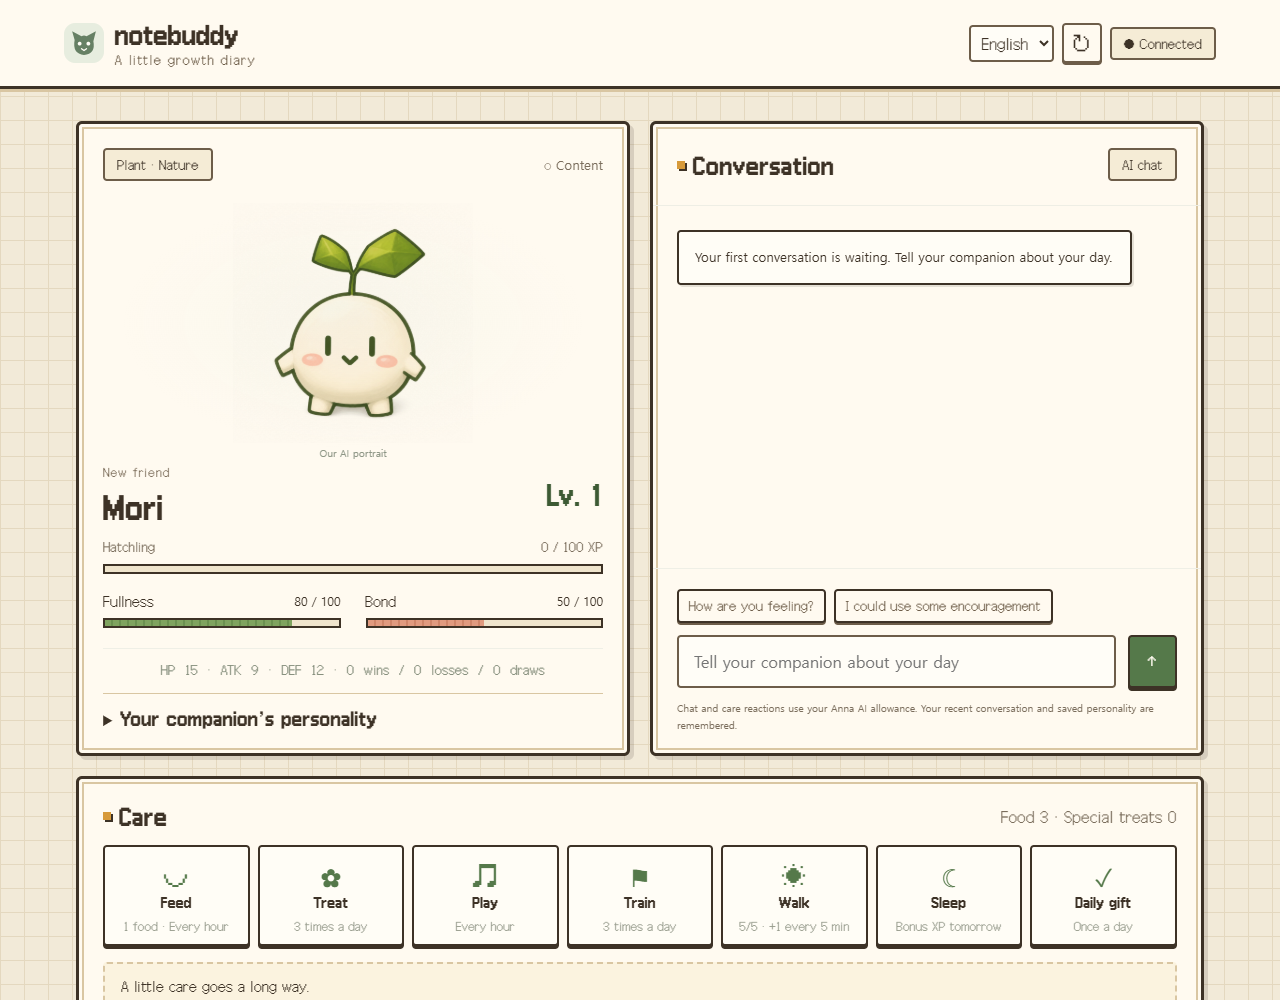
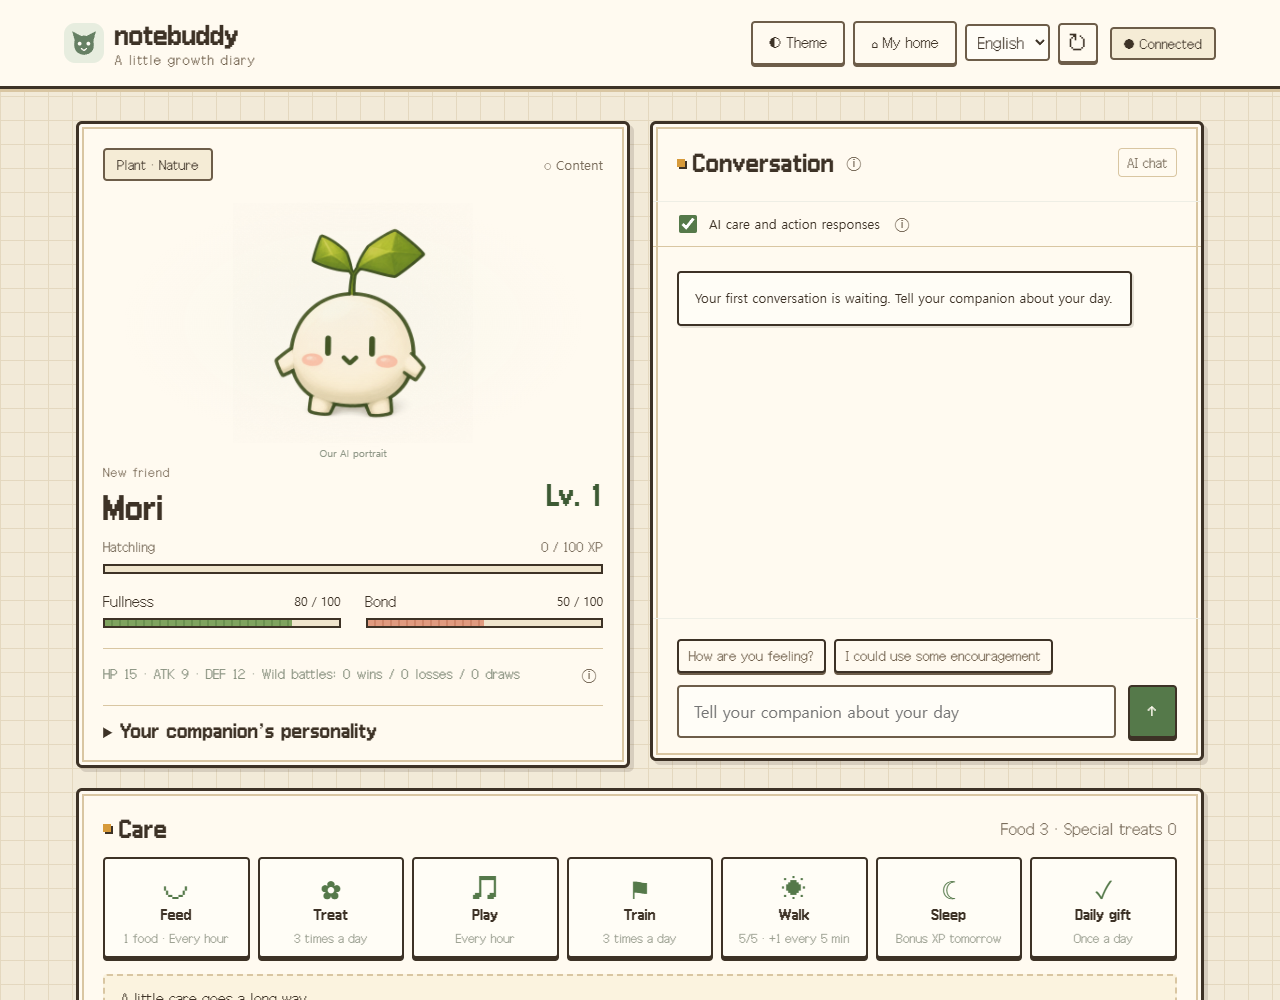
Refresh 1.4.9 listing, screenshots and garden presentation

diff --git a/anna/bundle/home.css b/anna/bundle/home.css
@@ -4,4 +4,4 @@
 #home-purchase-dialog{width:min(440px,calc(100vw - 32px));max-height:calc(100dvh - 32px);overflow:auto}#home-purchase-dialog h2{font-size:18px;overflow-wrap:anywhere}#home-purchase-dialog p{line-height:1.7}
 .home-appearance-choice{padding:12px;border:1px solid var(--line);background:var(--paper);margin-bottom:10px}.home-appearance-choice h3{font-size:14px;margin:0 0 8px}.home-appearance-choice p{font-size:12px;line-height:1.6;margin:0 0 10px}.home-appearance-choice .birth-buttons{flex-wrap:wrap}.home-appearance-choice button{white-space:normal}
 
-.home-shop-filters{display:grid;gap:10px;margin:8px 0 14px}.home-shop-areas{display:flex;gap:5px}.home-shop-areas button{flex:1;min-width:0;padding:8px 3px;font-size:11px;min-height:38px}.home-shop-areas [aria-pressed=true]{background:var(--action,var(--green));color:var(--action-ink,#fffaf0)}#home-shop-category{width:100%;min-height:38px;font:inherit;font-size:12px;padding:7px;background:var(--paper);color:var(--ink);border:1px solid var(--line)}#home-shop-category[hidden]{display:none}
+.home-shop-filters{display:grid;gap:10px;margin:8px 0 14px}.home-shop-areas{display:flex;gap:5px}.home-shop-areas button{flex:1;min-width:0;padding:8px 3px;font-size:11px;min-height:38px}.home-shop-areas button[aria-pressed=true],.home-shop-areas button[aria-pressed=true]:hover:not(:disabled){background:var(--action,var(--green));color:var(--action-ink,#fffaf0)}#home-shop-category{width:100%;min-height:38px;font:inherit;font-size:12px;padding:7px;background:var(--paper);color:var(--ink);border:1px solid var(--line)}#home-shop-category[hidden]{display:none}

diff --git a/anna/scripts/store_fixture.py b/anna/scripts/store_fixture.py
@@ -1,5 +1,6 @@
 """Produce disposable, real-engine views for store screenshots; no Anna account."""
 import json
+import copy
 from pathlib import Path
 import subprocess
 import sys
@@ -30,11 +31,25 @@ for attempt in range(40):
     state, initial = run('start')
     if demo and demo.get('personality'):
         state, initial = run('personality', state, profile=json.dumps(demo['personality']))
+    garden_state=copy.deepcopy(state)
+    # Disposable showcase currency; production saves are never read or written.
+    garden_state['coins']=200
+    for key in ['yard-cherry','yard-tulips','yard-lavender','yard-lily-pond','yard-garden-bench','yard-lantern','yard-herbs','yard-stone-cat','yard-roses','yard-windmill','yard-rock-garden','yard-birdbath']:
+        payload=dict(pet_id=garden_state['pet_id'],revision=garden_state.get('home',{}).get('revision',0),item_id=key)
+        garden_state,_=run('home_buy',garden_state,home_payload=json.dumps(payload))
+    for _ in range(4):
+        _,planned=run('home',garden_state)
+        payload=dict(pet_id=garden_state['pet_id'],revision=planned['home']['revision'],candidate_id=planned['home_candidates'][0]['id'],reason='')
+        payload['reason']='A welcoming garden with flowers, shade and a pond.'
+        garden_state,garden=run('home_apply',garden_state,home_payload=json.dumps(payload))
     state, discovery = run('walk_begin', state)
     if any(entry['discovered'] for entry in discovery['status']['dungeons']['entries']):
         if discovery['status'].get('encounter'):
             state, discovery = run('flee', state)
-        print(json.dumps({'initial': initial, 'discovery': discovery}, ensure_ascii=False))
+        current=state.get('journey',{}).get('current')
+        if current and current['state']=='pending':
+            state,discovery=run('walk_leave',state,choice_id=current['choice_id'])
+        print(json.dumps({'initial': initial, 'discovery': discovery,'garden':garden}, ensure_ascii=False))
         break
 else:
     raise RuntimeError('No discovery in disposable screenshot games; rerun explicitly')

diff --git a/anna/README.en.md b/anna/README.en.md
@@ -38,7 +38,7 @@ Choose **◐ Theme** in the header to change your notebook's mood. Seven themes 
 | **Care for your friend** | Feed, treat, play, train and rest. Watch fullness and bond, collect a daily gift, and claim daily quest rewards. |
 | **Have a conversation** | Replies use personality, recent conversation and shared experience. Care also receives a short reaction. |
 | **Get to know their personality** | Inspect curiosity, warmth, energy and caution as actual care and adventure experiences accumulate and inform replies and stories. |
-| **Keep a growth album** | Reach new stages at levels 10, 30 and 50, then choose when to draw and save a new portrait. |
+| **Keep a growth album** | Reach new stages at levels 10, 30 and 50 and view your saved companion artwork. |
 | **Take a walk** | Find XP, meet creatures or choose a story outcome. Six three-chapter arcs carry earlier choices and experiences forward. |
 | **Explore a dungeon** | Discover Hellgate, Ice Kingdom, Dream Forest, Sunken Palace or Forgotten Clockwork City during walks, then enjoy automatic movement, room choices and battles. |
 | **Browse little treasures** | Open **Browse items** for twenty-four illustrations with lore, rarity, planned rewards and fit requirements. |
@@ -59,7 +59,7 @@ In 1.2.0, each final guardian clear grants one unowned regional item: three stan
 
 Growth, recent conversation and artwork are stored separately for each user. Resume a pending story with **Continue walk**. Reopening the app does not require creating your companion again.
 
-Chat, care reactions, personality, walk stories, drawing/photo analysis and new portraits use **the signed-in Anna account's AI allowance**. Random companions also use AI for initial personality and directional movement creation. Browsing the book and converting a portrait to pixels make no additional AI calls. Existing companions without a personality can use **Meet your personality**.
+Chat, optional care replies and walk narration, initial personality, reference analysis, portrait generation, optional home pixel generation and requested decoration use **your Anna AI allowance**. Care AI can be disabled above chat without losing actions, stats or rewards; direct chat still uses AI. Random portraits are bundled but their initial personality uses AI. Purchases, visits, movement and free pixel conversion do not call AI.
 
 Switching between English and Korean changes the interface and new replies while keeping names and previous conversations intact. To create a different companion, use **Start over** and confirm what will be deleted. Deleted companions and records cannot be recovered. [Privacy and data guide](PRIVACY.md)
 
@@ -73,12 +73,12 @@ Screenshots show the real UI with separate test data. Mori is an actual Anna-gen
 
 ## My home
 
-Open **My home**, buy furniture with game coins, then choose **Decorate**. Your companion chooses among validated layouts using its saved personality and carries the furniture into place. One room includes a free resting nest and eleven purchasable objects; each request places at most three stored objects. Undo restores the previous layout while keeping your purchases.
+Open **My home**, buy objects with game coins, then choose **Decorate**. Browse **12 indoor and 36 garden objects**, with area and garden-style filters. Flowers, trees, outdoor lounges, water features, storybook accents and natural gardens offer six different tastes. Your companion chooses a validated layout; each request places at most three stored objects. Indoor furniture has a carrying animation; garden objects appear in their finished positions. Undo restores both areas while keeping your purchases.
 
 Decorate makes one bounded layout-selection request. Purchases, room visits, movement, idle life, undo and save-only retries use no AI. Room geometry, furniture and the companion are rendered separately.
 
 In **1.4.3**, the home becomes a large pixel garden and separate indoor room. Your friend automatically follows paths through the door, changes poses with direction, and passes behind objects. Follow the camera, zoom in or pause to watch. Furniture opens in a separate panel.
 
-New companions and newly saved portraits, including growth portraits, automatically prepare matching directional poses with one image AI request. Home and dungeons share that saved sheet. There is no separate create/remake button; a growth-stage number alone does not request new poses.
+On the first home visit for an appearance, choose one AI image request for directional pixel poses or a free default pixel image converted from the existing portrait. Saving a companion does not automatically request movement images. Home and dungeons share the saved result. Manual portrait redraw has been removed.
 
-A failed pose request leaves the companion and portrait intact and never retries AI automatically. If only saving failed, keep the page open and use **Retry saving movement** in My home; this uses no AI. Existing companions without poses get them with their next new portrait, while dungeons use their current portrait as a fallback. Equipment is not implemented yet; its final equipped portrait will use the same appearance-save flow.
+A failed pose request leaves the companion and portrait intact and sets a free default without automatic AI retries. If only saving failed, use **Retry saving movement** in My home; this uses no AI. Reopening and moving reuse the saved appearance.

diff --git a/anna/store/README.md b/anna/store/README.md
@@ -1,20 +1,17 @@
-# Store screenshots — 1.0.0
+# Store screenshots - 1.4.9
 
-Captured on **2026-10-14** from the 1.0.0 UI bundle, using isolated views produced by the actual Python game worker. The featured companion **Mori** is the actual Anna-generated result of the original sprout doodle shown in the editor. The screenshots are browser captures, not generated UI mockups. Listing order:
+Captured from the current shipped UI using disposable real-Python-engine views and the existing Anna-generated Mori reference/portrait. No live user data, new paid AI, or production storage calls. No conversation is fabricated.
 
-1. `02-companion-and-care.png`: **Mori after drawing → Anna analysis → portrait generation**, conversation area and care controls in the notebook theme, 1280 × 1000.
-2. `00-title.png`: the title screen shown on every load, with the bundled starter portraits, 1280 × 900.
-3. `04-draw-your-companion.png`: the same sprout reference entered through the real drawing editor's pointer controls, 1280 × 1000.
-4. `05-pixel-dungeon.png`: actual discovered-dungeon preview and the current companion's pixel silhouette, 1280 × 900. Entry is not pressed.
-5. `06-item-book.png`: the item book preview with its Items / Growth album tabs, opened from Mori's home, 1280 × 1000.
-6. `01-first-meeting.png`: the new-companion form with its three-step guide, 1280 × 1000.
+Listing order (Anna allows six):
+1. 02-companion-and-care.png: companion, chat, care and the optional care-AI checkbox.
+2. 07-home-garden.png: cottage and garden with twelve purchased garden objects.
+3. 08-garden-shop.png: All 48 / Inside 12 / Garden 36 filters and garden styles.
+4. 04-draw-your-companion.png: actual drawing editor and the recorded reference.
+5. 05-pixel-dungeon.png: current dungeon preview before entry, using the same companion.
+6. 06-item-book.png: current 24-design item book, not owned/equipped inventory.
 
-`03-care-and-album.png` (daily quests, growth album, pixel appearance and the item book entry, 1280 × 850) is captured and kept here but not listed, because Anna accepts at most six listing screenshots.
+The title, welcome and simplified growth album are also recaptured but are not in the six listing slots. All six listing captures were visually inspected.
 
-`demo/reference.png` was drawn with `scripts/store_drawing.mjs`. The unmodified app functions `checkArtwork` and `birthPrompt` supplied the normal analysis and generation requests to Anna. Anna returned **plant / nature**, the portrait in `demo/portrait.png`, and a personality using the unchanged `personalityPrompt`/`parsePersonality` flow. Preparation used **three Anna AI calls**: one analysis, one image generation, one personality initialization. `demo/provenance.json` records their results and image hashes, without credentials or signed URLs. The pixel portrait is the existing app's local conversion of this same generated portrait.
+Reproduce: `node scripts/capture_store.mjs` from anna/. The capture browser blocks outside requests and every AI or persistence mutation. The garden fixture starts with 200 disposable demo coins, buys twelve garden objects through the real rules and applies validated candidates without calling an LLM. This does not represent production ownership or an AI-generated decision. Its reason is sample scene copy. The home uses the free local pixel conversion of the recorded portrait, not invented directional poses. Production garden placement, purchases and AI-call bounds are tested separately.
 
-`scripts/store_fixture.py` creates disposable games with those analyzed birth traits, commits the real generated personality through the engine, and performs walk commands until a dungeon is discovered. Game values are not manually edited. `scripts/capture_store.mjs` serves the shipped files in a network-isolated browser with read-only host responses and the recorded art. Capture makes **no additional AI calls or production storage calls**, and no real user's data is changed. Chat is empty; no conversation is fabricated. These captures do not certify native installation or production persistence.
-
-Reproduce from `anna/` with `node scripts/capture_store.mjs` after preparing the existing assets and dependencies. This reuses the recorded Anna outputs, checks the recorded reference and portrait hashes, and refuses a starter-image fallback. The editor redraw is compared with the analyzed reference pixel by pixel (at most 2% of inked pixels may differ, since the editor's on-screen layout can shift stroke rasterization); the 1.0.0 capture differed on 0.0%. The randomly discovered dungeon may differ on a recapture. All seven captures were visually checked before metadata synchronization. `app.json` references the local files in display order; Anna CLI uploads them through the official listing screenshot API.
-
-Earlier sets: the 0.8.1 listing used five captures of the previous UI; installed-runtime verification for each version is recorded in its release notes.
+The original reference, portrait and personality remain in demo/ with provenance.json and checksums. Their historical preparation used three Anna calls; this recapture uses zero. capture.json records the current version, counts, fixture currency and source. These screenshots do not replace installed-runtime or persistence verification, which is recorded in the release notes.

diff --git a/README.md b/README.md
@@ -55,11 +55,11 @@
 
 1.4.2에서는 나의 홈을 넓은 픽셀 게임 공간으로 만날 수 있어요. 마당을 걷고 집 안으로 들어가는 친구를 가까이 보거나 잠시 멈춰 구경할 수 있어요. 가구는 상점에서 사고, 배치는 친구에게 맡겨 주세요.
 
-**새 친구나 새 성장 그림이 완성되면 방향별 픽셀 동작도 함께 준비해요.** 홈과 던전에서 같은 동작을 사용하며, 따로 다시 만드는 버튼은 없어요. 새 그림에 맞는 동작 생성에는 이미지 AI 한 번을 사용하고, 이동과 재입장에는 저장된 결과를 사용해요. [자세한 사용 안내](anna/README.md)
+**마이홈 첫 접속에서 AI 픽셀 캐릭터 또는 무료 기본 이미지를 선택해요.** AI 생성은 이미지 요청 한 번을 사용하며, 기본 이미지는 현재 초상화를 무료로 픽셀 변환합니다. 저장된 모습은 홈과 던전에서 함께 쓰고 이동·재입장 때 다시 생성하지 않아요. 실내 12종과 마당 36종, 총 48종을 공간·취향별로 구입해 친구에게 배치를 맡길 수 있어요. [자세한 사용 안내](anna/README.md)
 
 ## 함께 자란 모습을 앨범에
 
-작은 유년기에서 시작해 **레벨 10·30·50**에 성장 단계를 맞이합니다. 성장한 모습을 새로 그려 앨범에 남기고, 이전 단계의 모습과 나란히 살펴보세요. 새로운 성장 그림은 원할 때 생성 버튼을 눌러 만들 수 있어요.
+작은 유년기에서 시작해 **레벨 10·30·50**에 성장 단계를 맞이합니다. 앨범에서 성장 단계와 저장된 그림을 확인해 보세요. 수동으로 새 모습을 다시 그리는 기능과 그림 정리 버튼은 제거했습니다.
 
 <p align="center">
   <img src="anna/store/03-care-and-album.png" width="900" alt="일일 퀘스트, 성장 앨범과 같은 친구의 픽셀 캐릭터 준비 화면">
@@ -130,11 +130,11 @@
 
 Anna 화면은 **한국어와 영어**를 지원합니다. 상단에서 언어를 선택하면 새 답변도 그 언어로 받을 수 있어요. 친구와 최근 대화·성장 기록은 사용자별로 저장됩니다.
 
-대화, 돌봄 반응, 성격·산책 이야기 생성, 그림·사진 분석과 새 초상화 생성에는 **사용하는 Anna 계정의 AI 사용량**이 적용됩니다. 랜덤 친구도 초기 성격과 방향별 동작을 만들 때 AI를 사용해요. 이미지 파일 선택·미리보기, 아이템 도감 조회, 픽셀 변환 자체는 AI를 호출하지 않습니다.
+대화, 선택한 돌봄 반응·산책 이야기, 초기 성격, 그림·사진 분석과 초상화 생성, 선택한 마이홈 픽셀 캐릭터와 ‘꾸며 줘’에는 **Anna 계정의 AI 사용량**이 적용됩니다. 채팅 위에서 돌봄 AI를 끄면 행동·상태·보상은 처리하고 AI 반응과 산책 이야기는 생성하지 않아요. 직접 보내는 채팅은 AI를 사용합니다. 랜덤 친구의 그림은 기본 제공되지만 초기 성격은 AI를 사용해요. 구매·미리보기·이동·무료 픽셀 변환은 AI를 호출하지 않습니다.
 
 ## 앞으로 함께 만들 것들
 
-지역 아이템 수집과 보관함 다음으로 **코인 상점·착용**을 만들 예정입니다. 캐릭터 부위 분석과 원본을 유지하는 착용 그림 생성은 이미지 편집 API 지원과 품질 확인 후 연결해요.
+지역 아이템 수집·보관함과 **집·마당 꾸미기 상점**은 사용할 수 있어요. 캐릭터 아이템 착용은 후속 기능이며, 원본을 유지하는 착용 그림 생성은 이미지 편집 API 지원과 품질 확인 후 연결해요.
 
 **침몰한 왕궁·잊혀진 태엽도시는 지금 탐험할 수 있어요.** 이후 공중성·도서관·사막 테마를 계획하고 있습니다. 착용과 후속 지역은 아직 제공하지 않아요. [아이템 계획](anna/docs/ITEMS.md)
 

diff --git a/README.en.md b/README.en.md
@@ -55,11 +55,11 @@ Tell them about your day in the conversation area. Replies draw on their saved p
 
 Version **1.4.3** adds a spacious pixel home. Watch your friend wander through the garden and enter their room, follow the camera, zoom in or pause. Buy furniture in the shop and ask your friend to choose its placement.
 
-**New companions and newly saved growth portraits also get matching directional poses.** Home and dungeons share these poses, with no separate remake button. Each new artwork uses one movement image request; walking and reopening reuse the saved result. [Home guide](anna/README.en.md)
+**Choose an AI pixel character or a free default image on your first home visit.** Generation uses one image request; the free default converts the current portrait locally. Home and dungeons reuse the saved appearance. Browse 12 indoor and 36 garden objects by area and style, then ask your companion to decorate. [Home guide](anna/README.en.md)
 
 ## Keep their growth in an album
 
-Your little companion reaches new growth stages at **levels 10, 30 and 50**. When you are ready, request a new portrait and keep it beside earlier stages in the growth album. New growth portraits are generated when you choose to create them.
+Your companion reaches new growth stages at **levels 10, 30 and 50**. The album shows stages and saved artwork. Manual portrait redraw and album cleanup controls have been removed.
 
 <p align="center">
   <img src="anna/store/03-care-and-album.png" width="900" alt="Daily quests, the growth album and pixel preparation for the same companion">
@@ -130,11 +130,11 @@ Future equipment will take each companion's body shape into account. A friend wi
 
 The Anna app supports **English and Korean**. Choose a language in the header for the interface and new replies. Companion progress and recent conversations are stored separately for each user.
 
-Chat, care reactions, personality and walk-story generation, reference analysis and new portraits use **the signed-in user's Anna AI allowance**. Random companions also use AI to initialize personality and directional movement. Selecting or previewing a file, browsing the item book and converting a portrait to pixels do not call AI.
+Chat, optional care reactions and walk narration, initial personality, reference analysis, portrait generation, the optional home pixel character and requested decoration use **your Anna AI allowance**. Turn off care AI above chat to keep actions, stats and rewards without AI care replies or walk narration; direct chat still uses AI. Random portraits are bundled, while initial personality uses AI. Purchases, browsing, movement and free pixel conversion do not call AI.
 
 ## What comes next?
 
-Regional collection and inventory are available. Coin shops and equipment are next; identity-preserving fitted portraits require image-edit API support and quality validation.
+Regional collection, inventory and the home/garden coin shop are available. Equipment is planned; identity-preserving fitted portraits require image-edit API support and quality validation.
 
 The **Sunken Palace and Forgotten Clockwork City are now playable**. Future regions include a sky castle, library and desert. Equipment and those future regions are not available yet. [Item plans](anna/docs/ITEMS.md)
 

diff --git a/anna/README.md b/anna/README.md
@@ -77,7 +77,9 @@
 
 ## 나만의 홈
 
-상단의 **나의 집**에서 친구의 방을 열고 게임 코인으로 가구를 구매해요. 가구는 보관함에 들어가며 **꾸며 줘**를 누르면 친구가 성격에 맞는 배치를 골라 직접 옮겨요. 무료 휴식 둥지와 구매 가구 11종이 있으며, 한 번에 최대 3개를 배치해요. 이전 배치로 되돌려도 구입한 가구는 남아요.
+상단의 **나의 집**에서 집과 마당을 열고 게임 코인으로 꾸미기 아이템을 구매해요. **집 안 12종과 마당 36종, 총 48종**을 공간·취향별로 찾아볼 수 있어요. 물건은 보관함에 들어가며 **꾸며 줘**를 누르면 친구가 성격에 맞는 배치를 골라요. 한 번에 최대 3개를 배치하고, 실내 가구는 운반 연출로, 마당 물건은 완성된 배치로 표시해요. 이전 배치로 되돌려도 구입한 물건은 남아요.
+
+마당에는 꽃 화단·나무·야외 휴식·물 장식·동화 소품·자연 정원의 여섯 취향이 있어요. 튤립과 라벤더, 벚나무와 단풍나무, 벤치와 해먹, 연못과 분수, 등불과 풍차 등을 고를 수 있어요. 구매·상점 보기·산책은 AI를 호출하지 않으며, 문과 친구의 산책길을 막는 배치는 코어가 거부해요.
 
 가구 배치 AI는 ‘꾸며 줘’를 눌렀을 때 최대 한 번만 사용해요. 구매·방 보기·이동·생활·되돌리기·저장 확인은 AI를 호출하지 않아요. 방·가구·친구는 각각 그려지며, 1.4.2부터 아래의 방향별 픽셀 동작을 사용해요.
 

diff --git a/anna/DEVELOPMENT.md b/anna/DEVELOPMENT.md
@@ -2,7 +2,7 @@
 
 [사용 안내로 돌아가기](README.md) · [English](DEVELOPMENT.en.md)
 
-현재 테스트 앱은 **1.4.8**, 실행 도구는 **0.9.1**입니다. 심사 대상은 **1.4.7**입니다. [최신 배포 기록](releases/RELEASE_148.md)을 기준으로 확인하세요.
+마당 확장 후보는 **1.4.9 / 도구 0.9.2**이며, 두 운영체제 검증 후 테스트 앱에 설치합니다. 심사 대상은 **1.4.8 / ID 1437**로 별도 유지합니다. 실제 배포 완료 여부는 [최신 인계](HANDOFF.md)와 [배포 기록](releases/RELEASE_149.md)을 기준으로 확인하세요.
 
 ## 실행
 

diff --git a/docs/screenshots/README.md b/docs/screenshots/README.md
@@ -1,3 +1,7 @@
+# Current 1.4.9 listing captures
+
+The six listing images were recaptured from the latest UI, including the home garden, 36-item garden shop and optional care AI. See [capture sources and isolation details](../../anna/store/README.md). Existing linked store image paths now show the current UI. The following entries describe historical captures.
+
 # README screenshot sources
 
 The feature guides use browser captures of the actual Notebuddy UI, not generated interface mockups. No live user's companion, conversation or account details appear in these documentation images.
